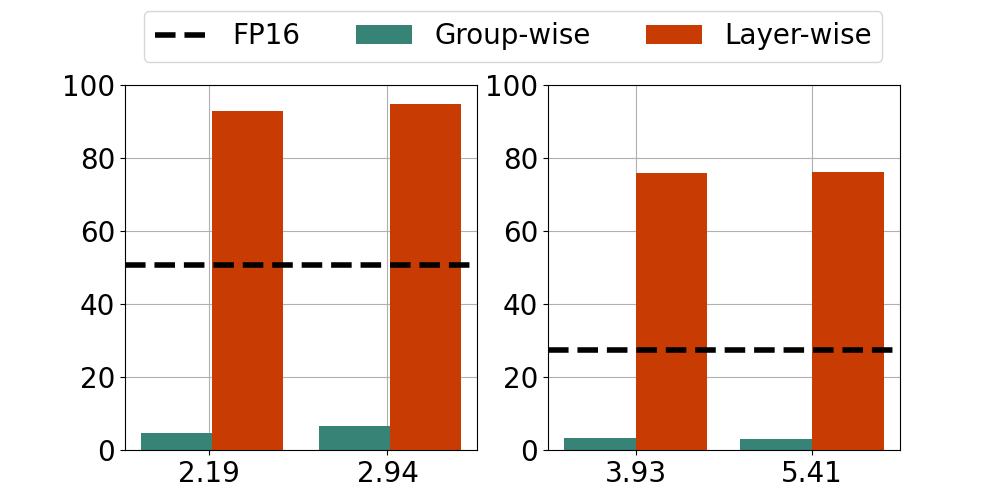
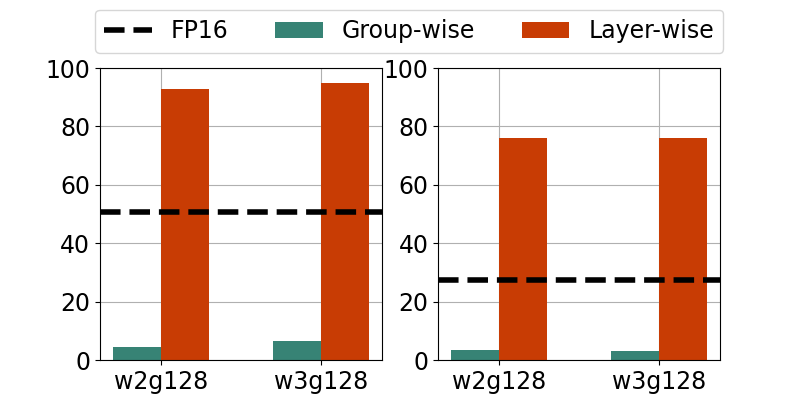
add mistral v0.3 7b sensitivity

diff --git a/acl/method/group_layer_wise_speed/visualize.py b/acl/method/group_layer_wise_speed/visualize.py
@@ -7,8 +7,8 @@ fp16_7b_tps = 50.59
 fp16_13b_tps = 27.31 
 
 bit = np.array([2, 3])
-memory_7b = np.array([2238, 3010]) / 1024
-memory_13b = np.array([4029, 5542]) / 1024
+# memory_7b = np.array([2238, 3010]) / 1024
+# memory_13b = np.array([4029, 5542]) / 1024
 
 group_wise_7b_tps = [4.58, 6.65]
 group_wise_13b_tps = [3.27, 2.93]
@@ -16,7 +16,7 @@ group_wise_13b_tps = [3.27, 2.93]
 layer_wise_7b_tps = [92.92, 94.82]
 layer_wise_13b_tps = [76.02, 76.08]
 
-font = {'size'   : 20}
+font = {'size'   : 17}
 plt.rc('font', **font)
 plt.rc('axes', axisbelow=True)
 
@@ -30,7 +30,7 @@ colors = [
     '#2351AB',
 ]
 
-f = plt.figure(figsize=(10, 5))
+f = plt.figure(figsize=(8, 4))
 ax = f.subplots(ncols=2, nrows=1)
 
 width = 0.3
@@ -38,22 +38,25 @@ width = 0.3
 ax[0].grid(True)
 ax[1].grid(True)
 
-ax[0].bar(memory_7b, group_wise_7b_tps, width=width, label='Group-wise', color=colors[3])
-ax[0].bar(memory_7b + 1 * width, layer_wise_7b_tps, width=width, label='Layer-wise', color=colors[2])
+ax[0].bar(bit, group_wise_7b_tps, width=width, label='Group-wise', color=colors[3])
+ax[0].bar(bit + 1 * width, layer_wise_7b_tps, width=width, label='Layer-wise', color=colors[2])
 ax[0].axhline(fp16_7b_tps, color='black', linestyle='--', linewidth = 4, label='FP16')
 
-width = 0.6
-ax[1].bar(memory_13b, group_wise_13b_tps, width=width, label='Group-wise', color=colors[3])
-ax[1].bar(memory_13b + 1 * width, layer_wise_13b_tps, width=width, label='Layer-wise', color=colors[2])
+width = 0.3
+ax[1].bar(bit, group_wise_13b_tps, width=width, label='Group-wise', color=colors[3])
+ax[1].bar(bit + 1 * width, layer_wise_13b_tps, width=width, label='Layer-wise', color=colors[2])
 ax[1].axhline(fp16_13b_tps, color='black', linestyle='--', linewidth = 4, label='FP16')
 
 ax[0].set_ylim(0, 100)
 ax[1].set_ylim(0, 100)
 
-ax[0].set_xticks(memory_7b + 0.23 * width, list(map(lambda x: f'{x:.2f}', memory_7b)))
-ax[1].set_xticks(memory_13b + 0.5 * width, list(map(lambda x: f'{x:.2f}', memory_13b)))
+# ax[0].set_xticks(bit + 0.23 * width, list(map(lambda x: f'{x:.2f}', bit)))
+# ax[1].set_xticks(bit + 0.5 * width, list(map(lambda x: f'{x:.2f}', bit)))
+ax[0].set_xticks(bit + 0.5 * width, ['w2g128', 'w3g128'])
+ax[1].set_xticks(bit + 0.5 * width, ['w2g128', 'w3g128'])
 
-ax[0].legend(loc='upper left', ncol=4, bbox_to_anchor=(0.014, 1.24))
+
+ax[0].legend(loc='upper left', ncol=4, bbox_to_anchor=(-0.06, 1.24))
 
 f.subplots_adjust(top=0.83, bottom=0.1)
 
@@ -72,5 +75,5 @@ f.subplots_adjust(top=0.83, bottom=0.1)
 
 
 # ax[1].legend(loc='upper left', ncol=4, bbox_to_anchor=(0.5, 1.15))
-
+# plt.tight_layout()
 plt.savefig('group_layer_wise_speed.png')

diff --git a/awqgptq.py b/awqgptq.py
@@ -74,7 +74,12 @@ def main(args):
 
     accelerator, device_map = init_accelerator(args.gpu_id, config)
 
-    latency_table = None
+    arch = dict()
+    arch['linear'] = {linear: [args.bits] * config['n_block'] for linear in config['linear']}
+    accelerator.print(arch)
+
+    # accelerator.print(get_net_info(arch, config, args.group_size)['bits'])
+    # exit()
 
     model_id = f'{args.model_path}/{args.model_name}'
 
@@ -99,10 +104,6 @@ def main(args):
         quant_model_paths=args.quant_model_paths,
         group_size=args.group_size,
     )
-
-    arch = dict()
-    arch['linear'] = {linear: [args.bits] * config['n_block'] for linear in config['linear']}
-    accelerator.print(arch)
     
     linear_bits = np.concatenate(list(arch['linear'].values()))
     do_owq = ((linear_bits - linear_bits.astype(int)).sum() != 0)

diff --git a/utils/dispatch.py b/utils/dispatch.py
@@ -47,6 +47,7 @@ def simple_dispatch_model(model, device_map):
 
     for n, d in device_map.items():
         m = get_module_by_name_suffix(model, n)
+        # print(f'n: {n}, d: {d}, m: {m}')
         if d != "cpu":
             d = torch.device(d)
             hook = AlignDevicesHook(d, io_same_device=True, place_submodules=True)

diff --git a/acl/method/figure_2/visualize.py b/acl/method/figure_2/visualize.py
@@ -76,7 +76,7 @@ colors = [
     '#6699FF',
     '#FACA00',
     '#2351AB',
-    '#CAAA20',
+    '#736363',
 ]
 
 colors2 = [
